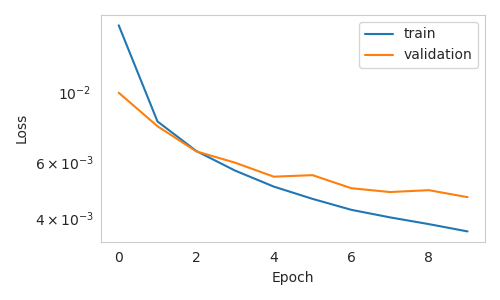
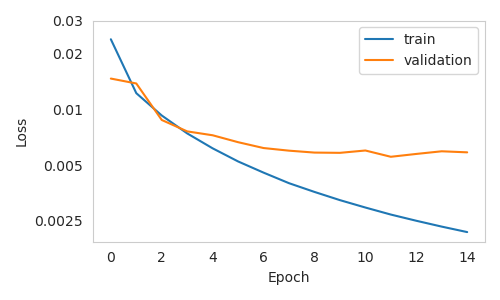
yolo training plot

diff --git a/src/utils/analyse_logdir.py b/src/utils/analyse_logdir.py
@@ -1,5 +1,3 @@
-from packaging import version
-
 import pandas as pd
 from matplotlib import pyplot as plt
 import seaborn as sns
@@ -9,7 +7,7 @@ from src.utils.paths import DOCS_DIR
 from src.utils.plots import save_show_fig
 
 
-def load_stats(experiment_id: str = "LCXAHo9bQZqEzqXZJ9cAUA"):
+def load_stats(experiment_id: str):
     experiment = tb.data.experimental.ExperimentFromDev(experiment_id)
     df = experiment.get_scalars()
     return df
@@ -28,13 +26,21 @@ def plot_epoch_loss(df: pd.DataFrame, fig_location: str = None,
     g.set_ylabel('Loss')
     g.set_xlabel('Epoch')
     g.set(yscale='log')
+    g.set_ylim(top=0.03)
+    g.set_yticks([0.03, 0.02, 0.01, 0.005, 0.0025])
+    g.set_yticklabels([0.03, 0.02, 0.01, 0.005, 0.0025])
     fig.tight_layout()
     ax.legend(title='')
     save_show_fig(fig, fig_location, show_figure)
 
 
 if __name__ == "__main__":
+    """
+    The logdir has to be uploaded to tensorboard dev:
+    tensorboard dev upload --logdir ./logs/20210315-143811/
+    See: https://www.tensorflow.org/tensorboard/dataframe_api
+    """
     location = DOCS_DIR.joinpath('images/tiny_yolov3_epoch_loss.png')
-    df = load_stats()
+    df = load_stats(experiment_id='yxDzYYTETMO0I0GZb4Ab2A')
     plot_epoch_loss(df, fig_location=location, show_figure=True)
     pass

diff --git a/src/pose_estimation/train.py b/src/pose_estimation/train.py
@@ -146,7 +146,7 @@ if __name__ == "__main__":
 
     # weights = LOGS_DIR.joinpath("20210330-024055/train_ckpts/weights.31.h5") # bighand
     # weights = LOGS_DIR.joinpath('20210316-035251/train_ckpts/weights.18.h5') # msra
-    try_dataset_pipeline('bighand')
+    # try_dataset_pipeline('bighand')
     # test('msra', weights)
 
     parser = argparse.ArgumentParser()
